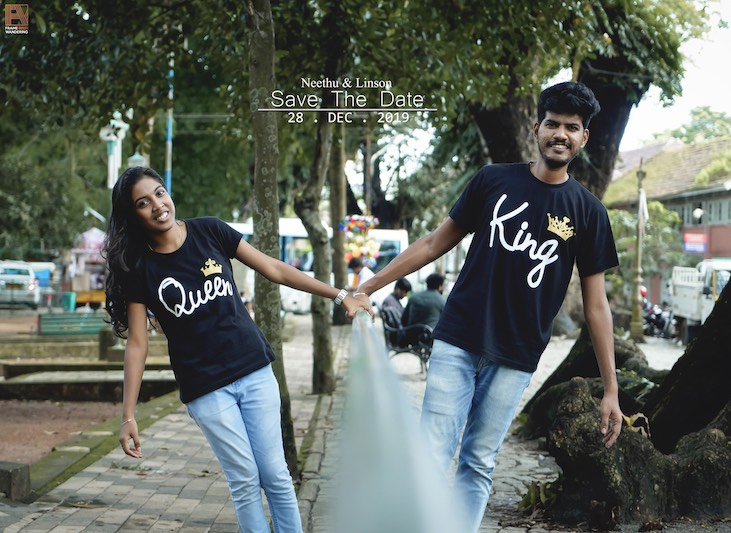
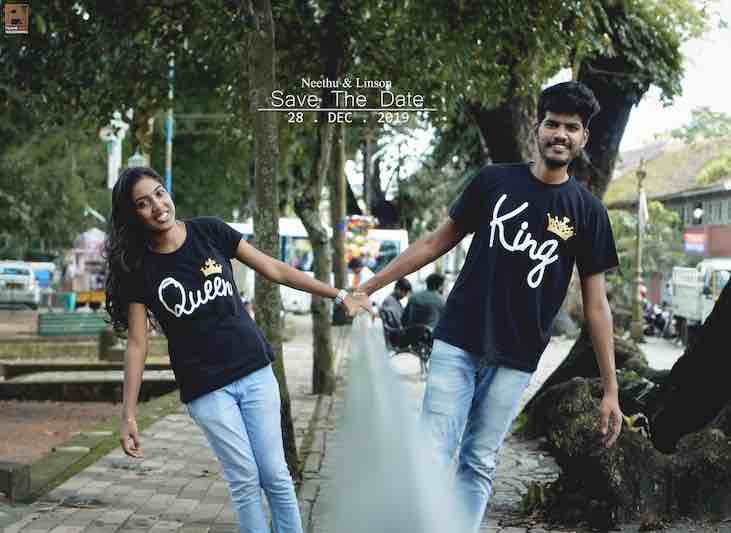
optimized size

diff --git a/index.html b/index.html
@@ -185,7 +185,7 @@
 				<div class="col-md-8 col-md-offset-2 text-center fh5co-heading animate-box">
 					<!-- <span>We Love Each Other</span> -->
 					<h2>Our Story</h2>
-					<p>We no longer believed in the idea of soul mates, or love at first sight. But we were beginning to believe that a very few times in your life, if you were lucky, you might meet someone who was exactly right for you. Not because that person was perfect, or because you were, but because your combined flaws were arranged in a way that allowed two separate beings to hinge together.</p>
+					<!-- <p>We no longer believed in the idea of soul mates, or love at first sight. But we were beginning to believe that a very few times in your life, if you were lucky, you might meet someone who was exactly right for you. Not because that person was perfect, or because you were, but because your combined flaws were arranged in a way that allowed two separate beings to hinge together.</p> -->
 				</div>
 			</div>
 			<div class="row">
@@ -225,7 +225,7 @@
 											<span class="date">April 21, 2019</span>
 										</div>
 										<div class="timeline-body">
-											<p>When he came for the vaccation to hometown. He took the permission from her parents and went for a date. And the first place they visit together was Edathua church. </br> This was their first selfie together.</p>
+											<p>When he came for the vaccation to his hometown he visited her and took her for a date. And the first place they visit together was Edathua church.</br> This was their first selfie together.</p>
 										</div>
 									</div>
 								</li>
